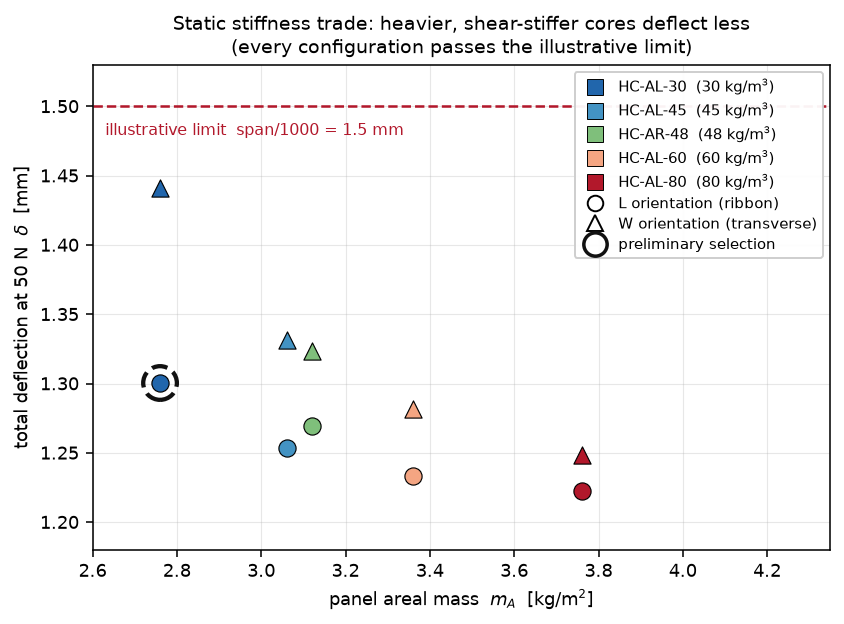
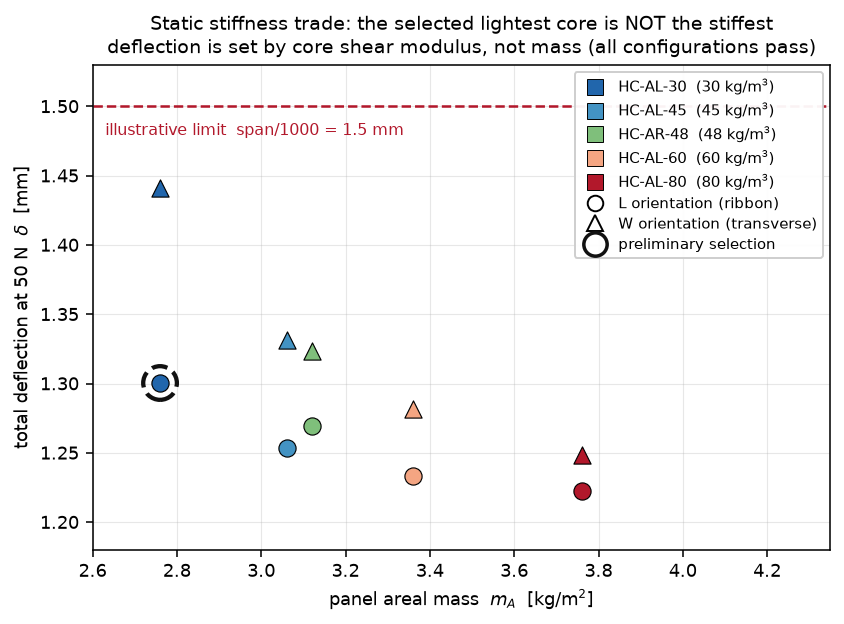
docs: correct figure titles and local-patch utilisation claim
Presentation-only audit of the four portfolio figures. No engineering
calculation, candidate datum, requirement or conclusion is changed; no source,
test, example or package metadata is touched. 740 tests still pass and every
headline result is unchanged.

Audit results (no engineering defects):
- Fig 1: selected HC-AL-30 [L] confirmed lightest but NOT lowest-deflection
  (7th of 10 on deflection); highlight preserved
- Fig 2: HC-AL-30 [L] confirmed both lightest and highest-frequency, and
  confirmed to hold the lowest G_eff of the L set
- Fig 3: every plotted utilisation confirmed to come straight from the
  canonical build_integrated_table() call; the omitted screens verified
  against the stated title bounds (face yield max 0.01735 <= 0.018, core
  shear max 0.004545 <= 0.005); HC-AL-30 [L] still closest to deflection at
  0.8669; modal still closest for all four heavier AL-60/AL-80 configurations
- Fig 4: all six thickness points re-verified against independent hand
  recomputation of EI, areal mass and the shear-corrected frequency
- generator confirmed free of hard-coded engineering results; the only
  literals are study-basis constants, styling and axis limits

Corrections made:
- README stated the local-patch utilisation was "0.13 for every candidate".
  That was wrong: the patch PRESSURE is the same 160 kPa for all, but the
  utilisation runs 0.025-0.133 because each core has a different compressive
[…]

Changed region(s): [[0.1232, 0.0, 0.9858, 0.0913]]

diff --git a/figures/make_figures.py b/figures/make_figures.py
@@ -159,8 +159,13 @@ def figure_1_mass_vs_deflection() -> None:
 
     ax.set_xlabel("panel areal mass  $m_A$  [kg/m$^2$]")
     ax.set_ylabel("total deflection at 50 N  $\\delta$  [mm]")
-    ax.set_title("Static stiffness trade: heavier, shear-stiffer cores deflect less\n"
-                 "(every configuration passes the illustrative limit)", fontsize=10)
+    # Deflection differences across candidates come ENTIRELY from the core shear
+    # term: the bending term is identical for all of them. So this is a shear-
+    # stiffness trade, not a mass trade - HC-AR-48 is heavier than HC-AL-45 yet
+    # deflects more, because its G is lower.
+    ax.set_title("Static stiffness trade: the selected lightest core is NOT the stiffest\n"
+                 "deflection is set by core shear modulus, not mass "
+                 "(all configurations pass)", fontsize=10)
     ax.set_xlim(2.6, 4.35)
     ax.set_ylim(1.18, 1.53)
     _candidate_legend(ax, "upper right")
@@ -250,8 +255,12 @@ def figure_4_core_thickness_trade() -> None:
     ax_top.set_ylabel("areal mass  $m_A$  [kg/m$^2$]")
     ax_top.set_ylim(2.2, 3.7)
     ax_top.legend(loc="upper left", fontsize=8)
-    ax_top.set_title("Core-depth trade (HC-AL-45): depth buys frequency cheaply\n"
-                     "mass grows linearly, $f_1$ grows because $EI \\sim t_c^2$", fontsize=10)
+    # "EI ~ t_c^2" would be an overstatement: with finite face thickness EI rises
+    # by 8.5x from 10 to 30 mm rather than the 9x an exact square law gives, mass
+    # rises 1.35x, and the shear flexibility ratio worsens with depth. All three
+    # act on f_1; the net effect is the computed curve below.
+    ax_top.set_title("Core-depth trade (HC-AL-45): increased face separation raises\n"
+                     "stiffness faster than mass, so $f_1$ rises", fontsize=10)
 
     ax_bot.plot(thicknesses, [a.modal.frequency for a in data["L"]],
                 marker="o", color="#1b6ca8", linewidth=1.6, label="$f_1$, L orientation")

diff --git a/README.md b/README.md
@@ -135,6 +135,12 @@ Areal mass spans **2.760 – 3.760 kg/m²**; total deflection spans **1.222 – 
 in L and **1.248 – 1.441 mm** in W. All ten configurations pass the illustrative
 `span/1000 = 1.5 mm` limit.
 
+Note that the selected (lightest) configuration is **not** the stiffest — it ranks
+7th of 10 on deflection. Nor is deflection a pure mass trend: HC-AR-48 is heavier
+than HC-AL-45 yet deflects *more*, because the bending term is identical for every
+candidate and the only thing that varies is the core shear term `δ_s = P·L/(4κ·G_eff·A_s)`.
+Static deflection here is a **core shear-stiffness** trade, not a mass trade.
+
 Because the core carries no bending normal stiffness, `EI` and the bending
 deflection are *identical* across candidates. Only two things move: areal mass
 (through `ρ_c·t_c`) and shear deflection (through `G_eff`). For the same geometry
@@ -204,6 +210,14 @@ only mode 1 is used as a screen.
 illustrative **25 Hz** minimum — all ten pass. The bending-only frequency is
 bit-for-bit identical between L and W; only the shear correction differs.
 
+The lightest core (HC-AL-30, and the *lowest* `G_eff` of the set) gives the highest
+frequency: `EI` is face-dominated and common to every candidate, so the core moves
+only the distributed mass and the shear correction — and over this range the mass
+penalty of a denser core outweighs its shear-stiffness benefit.
+**This ordering is specific to the current geometry, face-sheet design and
+illustrative candidate data. It is not a universal honeycomb trend** — a thinner
+face, a longer span or a softer core set could reverse it.
+
 ## Integrated candidate trade
 
 Four requirement families in four different units, combined **only** by logical
@@ -229,8 +243,13 @@ For cross-mode comparison the model reports dimensionless **utilisations**
 | HC-AL-60 [W] | 0.854 | 0.017 | 0.002 | 0.007 | **0.882** | frequency |
 | HC-AL-80 [W] | 0.832 | 0.017 | 0.001 | 0.005 | **0.923** | frequency |
 
-The local patch utilisation (0.13 for every candidate) belongs to an independent
-load case and is reported separately, never mixed into this comparison.
+**The local-patch core-compression utilisation is deliberately not plotted or
+tabulated here.** It belongs to an *independent* local load case (100 N on a
+25 × 25 mm footprint) with no defined physical relationship to the global 50 N
+central load, so blending it into this comparison would imply a simultaneity the
+model never assumes. Reported separately, it runs 0.025 – 0.133 across the
+candidates: the patch *pressure* is the same 160 kPa for all of them, but each core
+has a different compressive allowable.
 
 For the two heaviest cores the **frequency** screen is closest to critical — the
 only screen other than deflection ever to become critical in this study.
